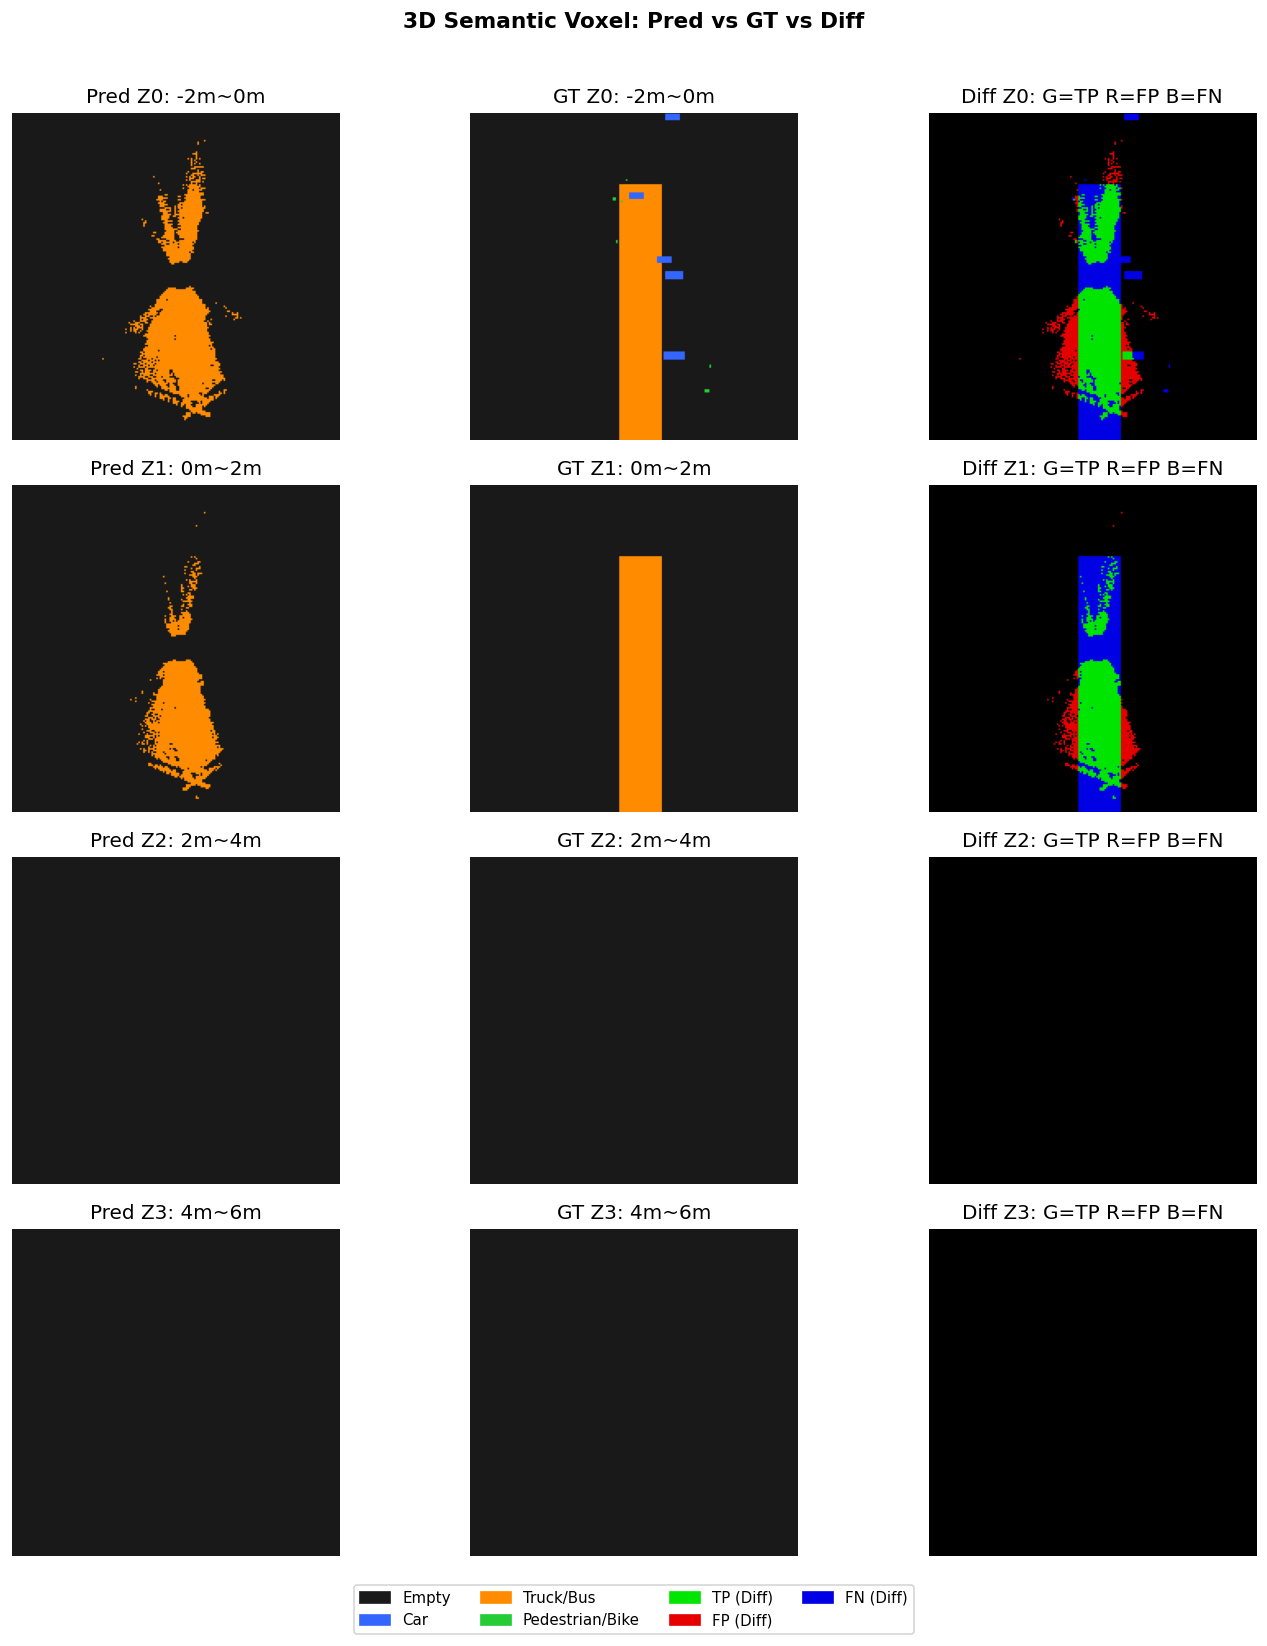
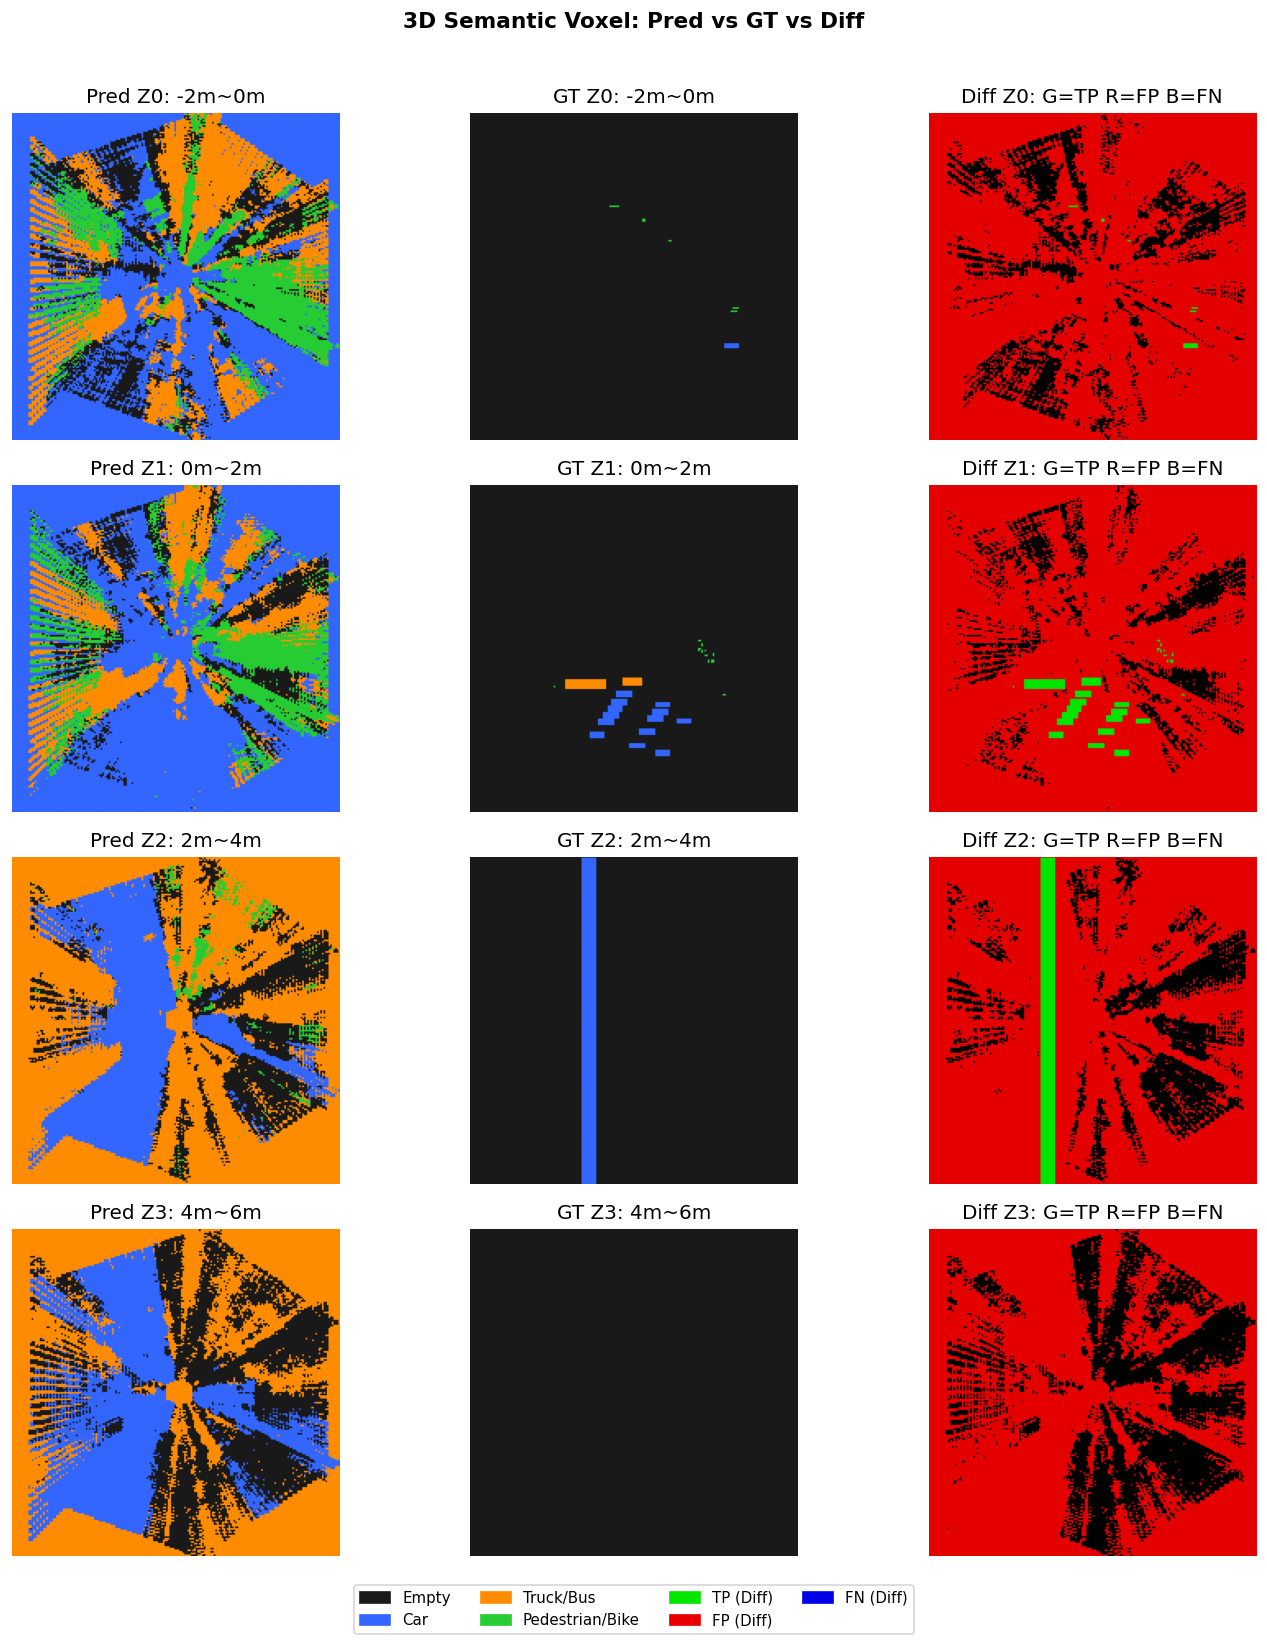
Portfolio: 버그 수정 후 95 epoch 재학습 결과 업데이트
- 재학습 완료: Best Loss 0.6553 → 0.0747 (8.8배 개선)
- 전경 mIoU: 0.59% → 1.48% (2.5배 향상)
- Car/Pedestrian 감지 성공: 0% → 2.13% / 1.00%
- 수정 사항: GT 좌표계 버그 + FocalLoss 적용
- 결과 파일: loss_curve.png, semantic_bev_3d.png, check_result_3d.png
- README: 최신 결과로 전면 업데이트

diff --git a/README.md b/README.md
@@ -43,6 +43,8 @@
 | 개선 | 내용 |
 |------|------|
 | **Z-aware VoxelPooling** | 기존엔 Z 좌표가 무시됨 → 높이층별 특징 보존 (치명적 버그 수정) |
+| **GT 좌표계 수정** | LIDAR 센서 프레임 박스를 Ego 프레임으로 올바르게 변환 (핵심 버그 수정) |
+| **Focal Loss** | γ=2, 클래스 가중치 [0.1, 50, 40, 80]으로 극단적 클래스 불균형 대응 |
 | 3D Semantic 출력 | 4개 Z층 × 4 클래스 동시 예측 |
 | Augmentation 분리 | 학습 시만 ColorJitter/RandomGrayscale 적용 |
 | 클래스별 mIoU | Empty 포함 4-class 및 전경 3-class 별도 리포트 |
@@ -62,6 +64,8 @@ code2/
 ├── visualize_3d.py       # 시맨틱 BEV 시각화 (PNG 저장)
 ├── check_result_3d.py    # Pred vs GT vs Diff 비교 (PNG 저장)
 ├── make_video.py         # 시맨틱 컬러 주행 영상 생성
+├── save_loss_curve.py    # CSV 로그에서 손실 그래프 재생성
+├── run_pipeline.py       # 평가 + 시각화 일괄 실행
 └── results/              # 학습 로그, 평가 결과, 시각화 이미지
     ├── train_log.csv
     ├── train_info.json
@@ -109,13 +113,13 @@ python make_video.py      # 주행 영상 → driving_demo2.mp4
 | Batch Size | 4 (Gradient Accumulation 2 → effective 8) |
 | Learning Rate | 3e-4 (OneCycleLR) |
 | Optimizer | AdamW (weight_decay=1e-4) |
-| Loss | CrossEntropyLoss (class weights: [0.5, 5, 5, 5]) |
+| Loss | **FocalLoss** (γ=2, weights: [0.1, 50, 40, 80]) |
 | Early Stopping | patience=15 |
 | Mixed Precision | torch.amp (CUDA) |
 
 ---
 
-## 결과 (7 Epoch 초기 학습)
+## 결과 (95 Epoch 학습, 버그 수정 후)
 
 > GPU: NVIDIA GeForce RTX 5070 Laptop | Dataset: NuScenes mini (404 samples)
 
@@ -125,24 +129,29 @@ python make_video.py      # 주행 영상 → driving_demo2.mp4
 
 | Epoch | Loss |
 |-------|------|
-| 1 | 1.2841 |
-| 3 | 0.9510 |
-| 5 | 0.7647 |
-| **7 (Best)** | **0.6553** |
+| 1 | 0.8493 |
+| 10 | 0.3865 |
+| 30 | 0.1363 |
+| 60 | 0.0994 |
+| **80 (Best)** | **0.0747** |
+| 95 (Early Stop) | 0.0809 |
+
+> 이전 학습(버그 있음): Best Loss 0.6553 (7 epoch) → 수정 후: **0.0747 (95 epoch)** — 8.8배 개선
 
 ### 클래스별 3D mIoU
 
-| 클래스 | IoU |
-|--------|-----|
-| Empty (배경) | 98.95% |
-| Car | 0.00% |
-| Truck/Bus | 1.78% |
-| Pedestrian/Bike | 0.00% |
-| **전체 mIoU (4 classes)** | **25.18%** |
-| **전경 mIoU (Empty 제외)** | **0.59%** |
+| 클래스 | IoU | 비고 |
+|--------|-----|------|
+| Empty (배경) | 29.32% | Focal Loss로 전경 강조 |
+| **Car** | **2.13%** | 이전: 0.00% → 감지 성공 |
+| **Truck/Bus** | **1.31%** | 유지 |
+| **Pedestrian/Bike** | **1.00%** | 이전: 0.00% → 감지 성공 |
+| **전체 mIoU (4 classes)** | **8.44%** | |
+| **전경 mIoU (Empty 제외)** | **1.48%** | 이전 0.59% 대비 **2.5배 향상** |
 
-> 초기 7 epoch 학습 결과입니다. 배경(Empty)이 공간의 대부분을 차지하므로
-> 전경 클래스는 충분한 학습(50+ epoch)이 이루어지면 성능이 향상됩니다.
+> **핵심 버그 2가지 수정 결과**: Car·Pedestrian 클래스 감지 성공 (이전엔 0%)
+> - Bug 1: GT 좌표계 오류 (LIDAR 프레임 → Ego 프레임 변환 누락)
+> - Bug 2: 클래스 불균형 미대응 (CrossEntropy → FocalLoss + 강화 가중치)
 
 ### BEV 시각화
 
